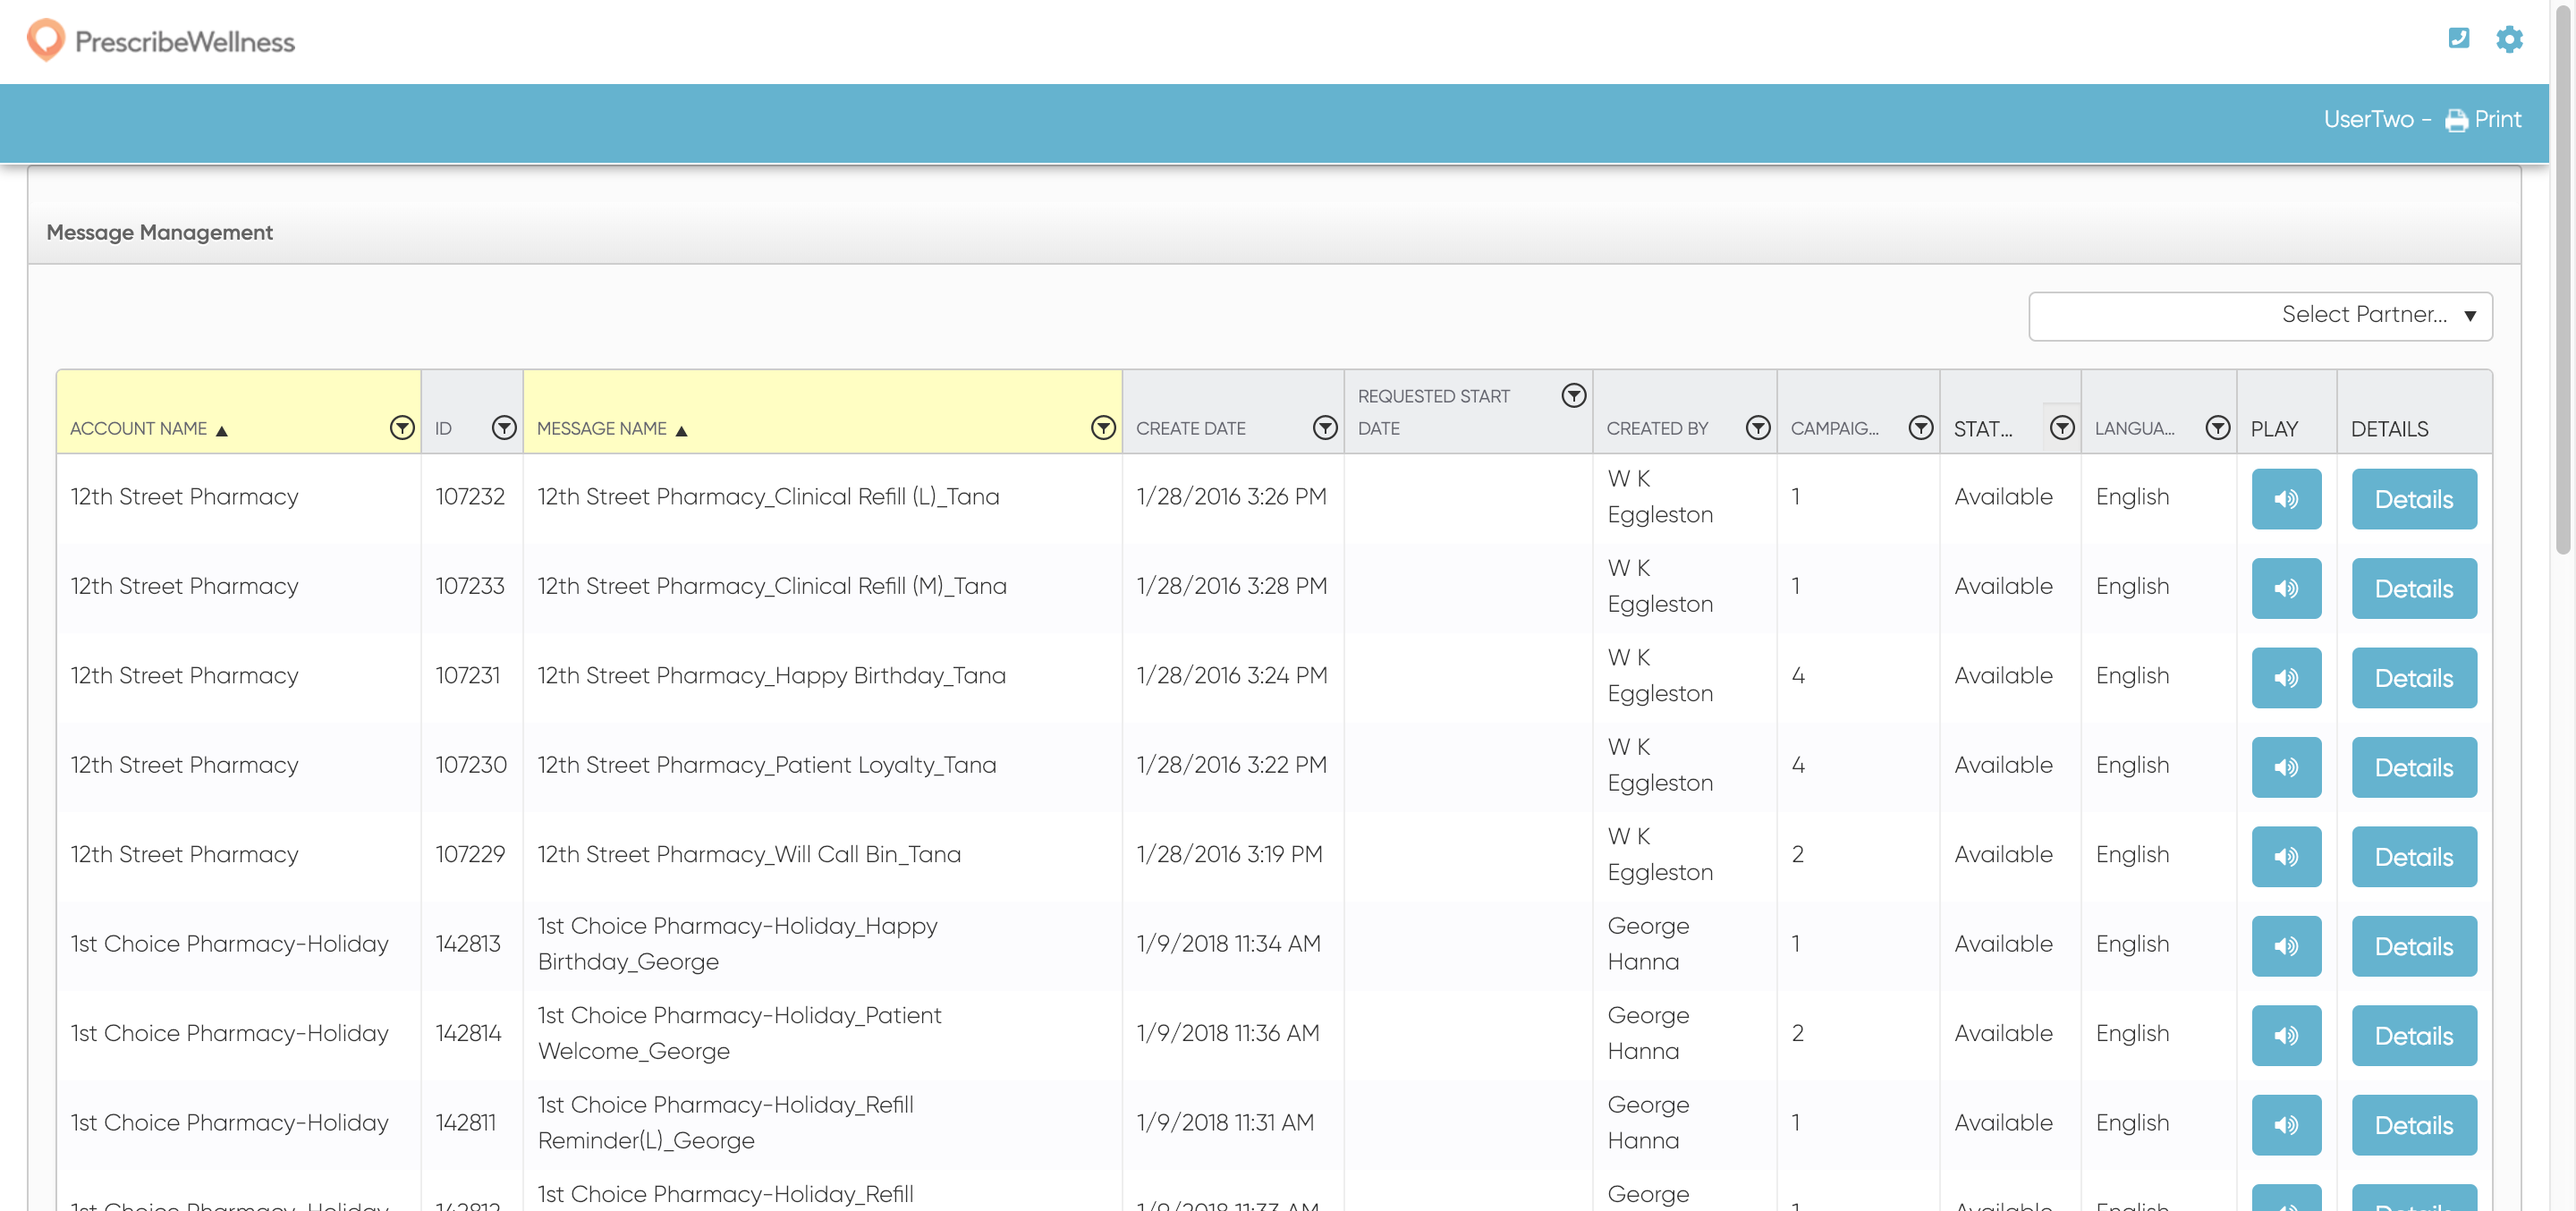
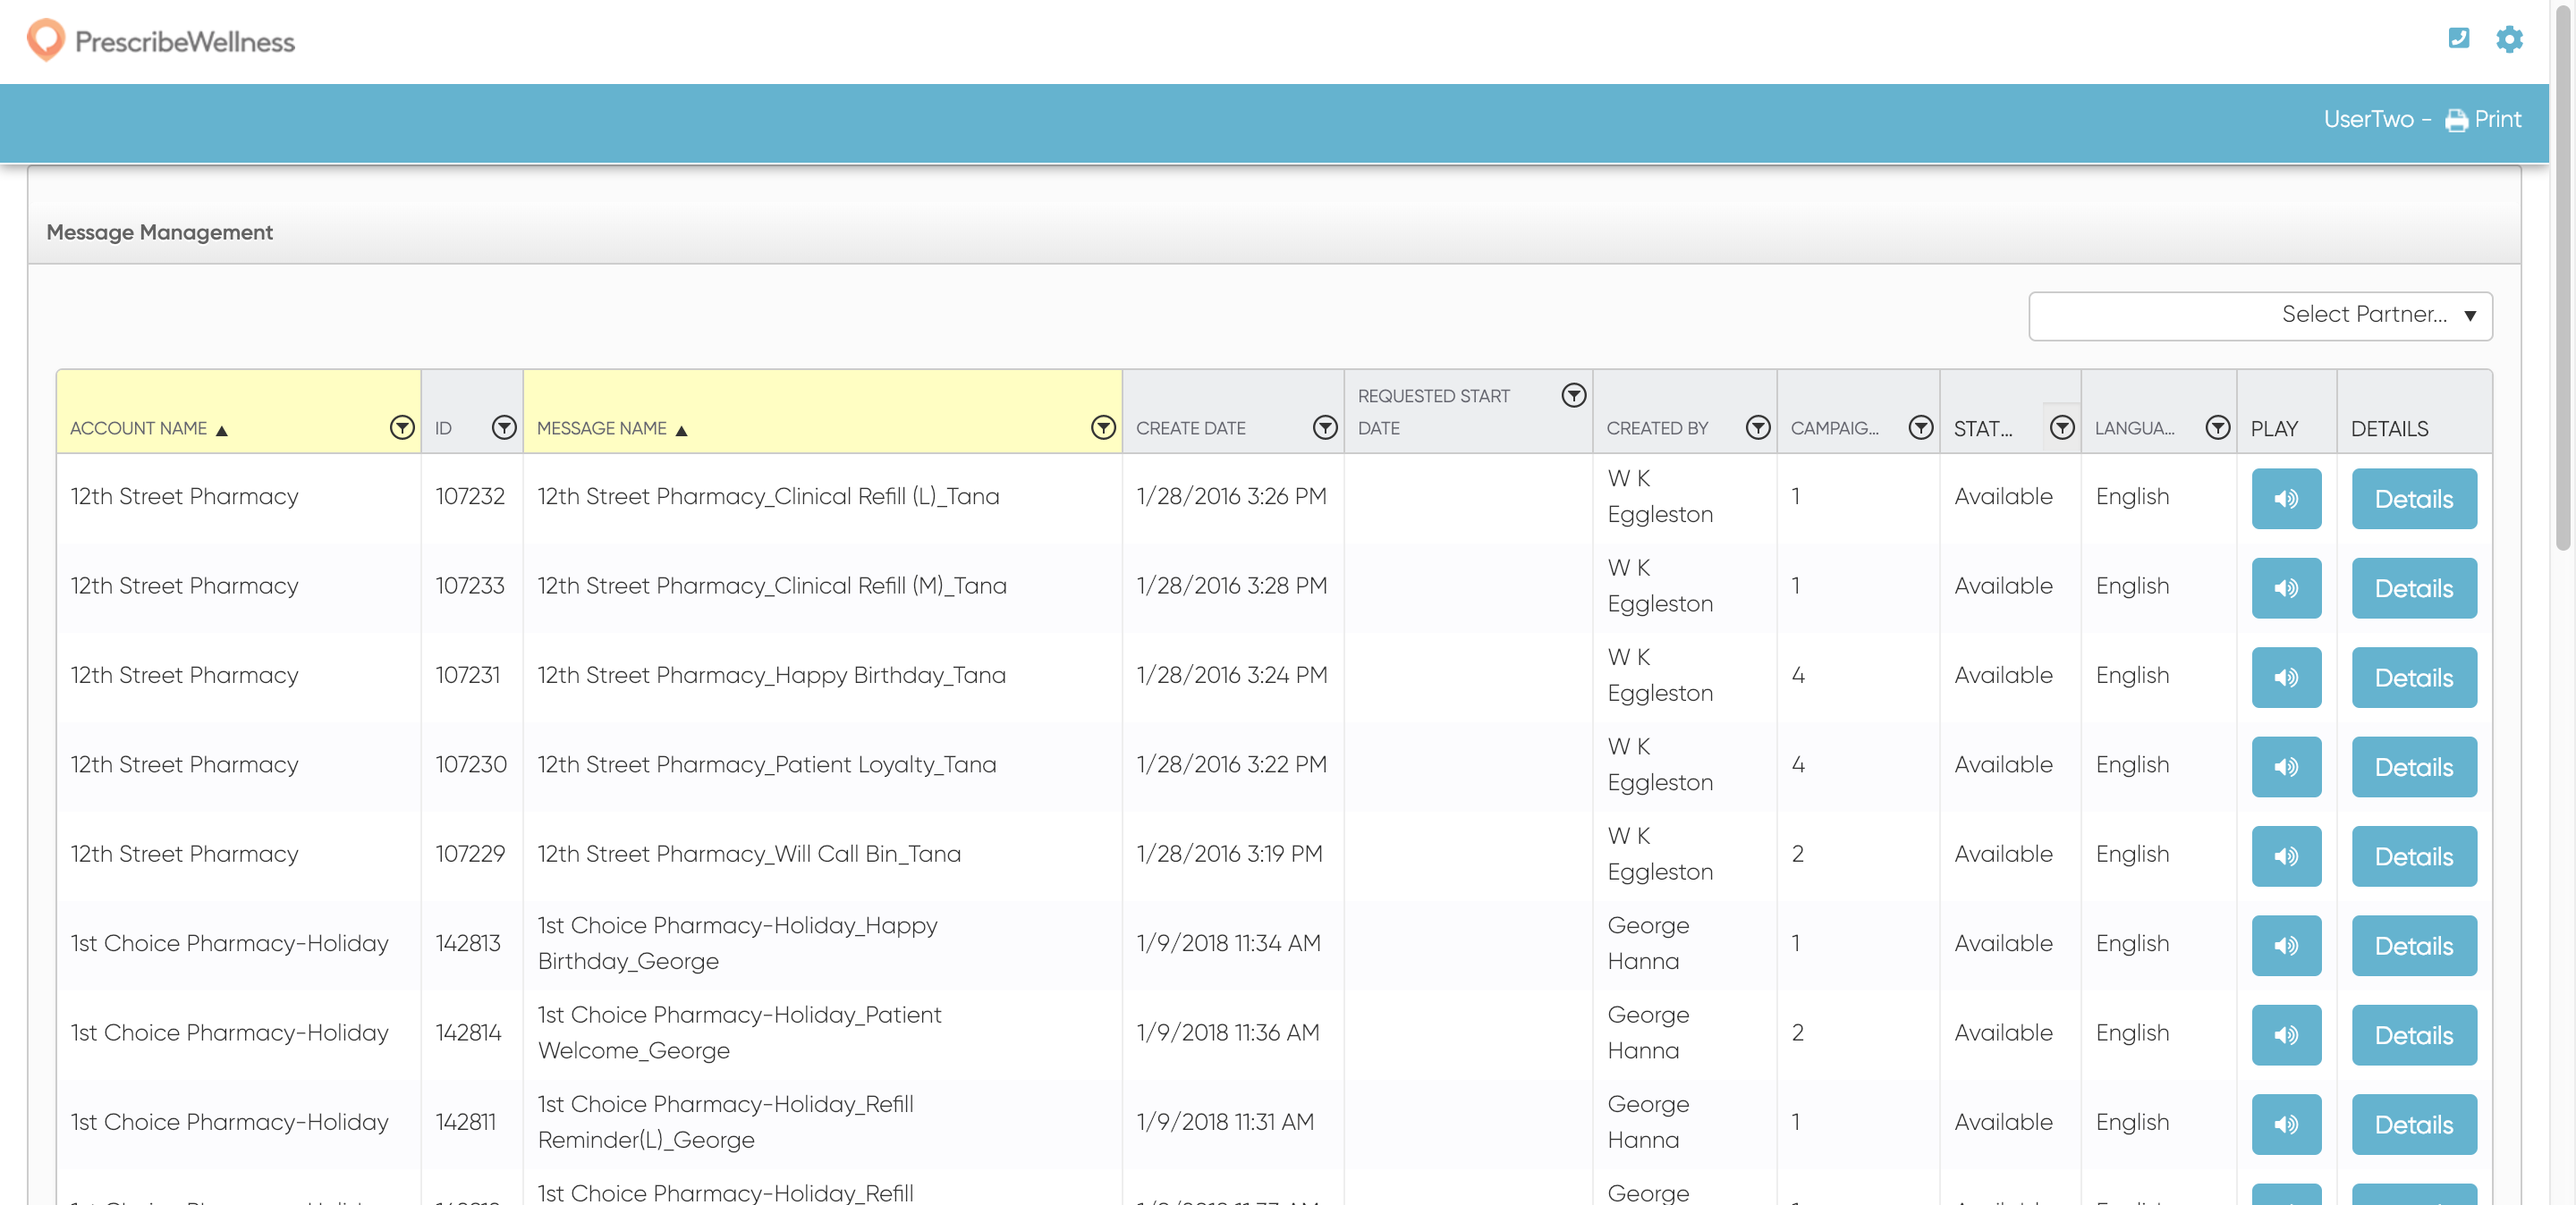
added script to go to msg mgmt and take a screenshot

diff --git a/google_stg_msg_mgmt.js b/google_stg_msg_mgmt.js
@@ -3,7 +3,7 @@ let fs = require('fs');
 let credentials = require('./credentials.js');
 let environment = require('./environment.js');
 
-(async function CustomerSignIn() {
+(async function msgMgmtTotal() {
   let driver = await new Builder().forBrowser('chrome').build();
     try {
         await driver.get(environment.stg);
@@ -13,8 +13,9 @@ let environment = require('./environment.js');
         await driver.findElement(By.id('pwTopGearIcon')).click();
         await driver.findElement(By.linkText('Message Management')).click();
         await driver.findElement(By.className('k-pager-info k-label'));
-        await driver.takeScreenshot().then(function(data) {
-            fs.writeFileSync(__dirname + "/tmp/screenshot1.png", data, 'base64');
+        await driver.sleep(4000);
+        await driver.takeScreenshot().then(function(data) { // Take Screenshot
+            fs.writeFileSync(__dirname + "/tmp/screenshot1.png", data, 'base64'); // Save screenshot to tmp folder
         });
     } 
     catch(err) {
